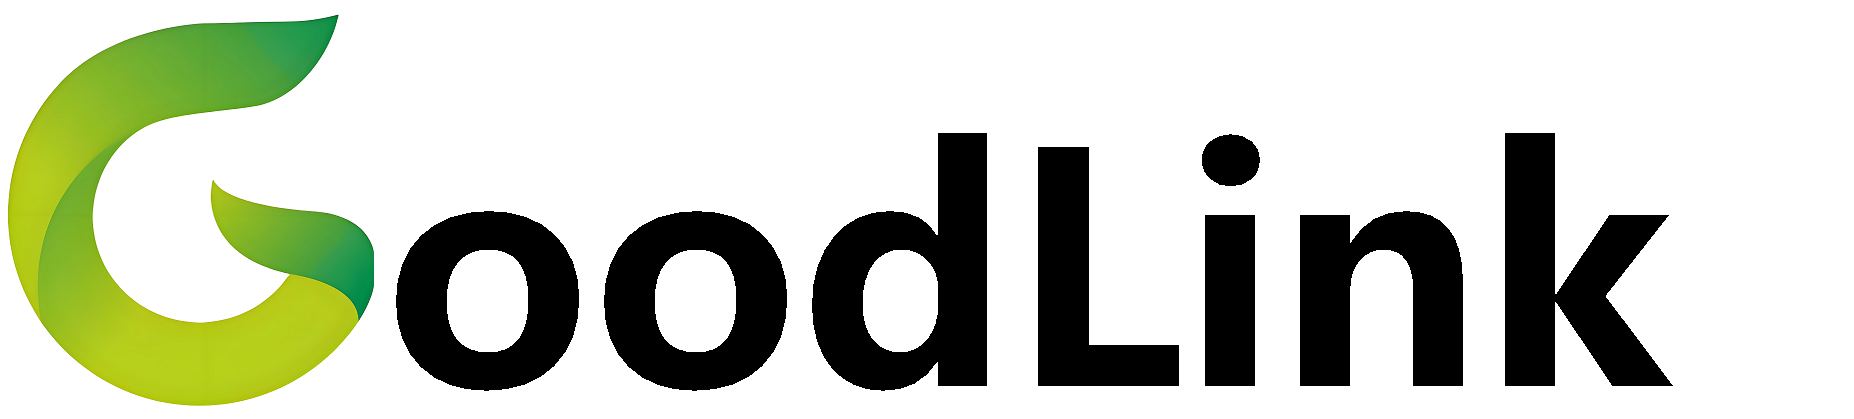
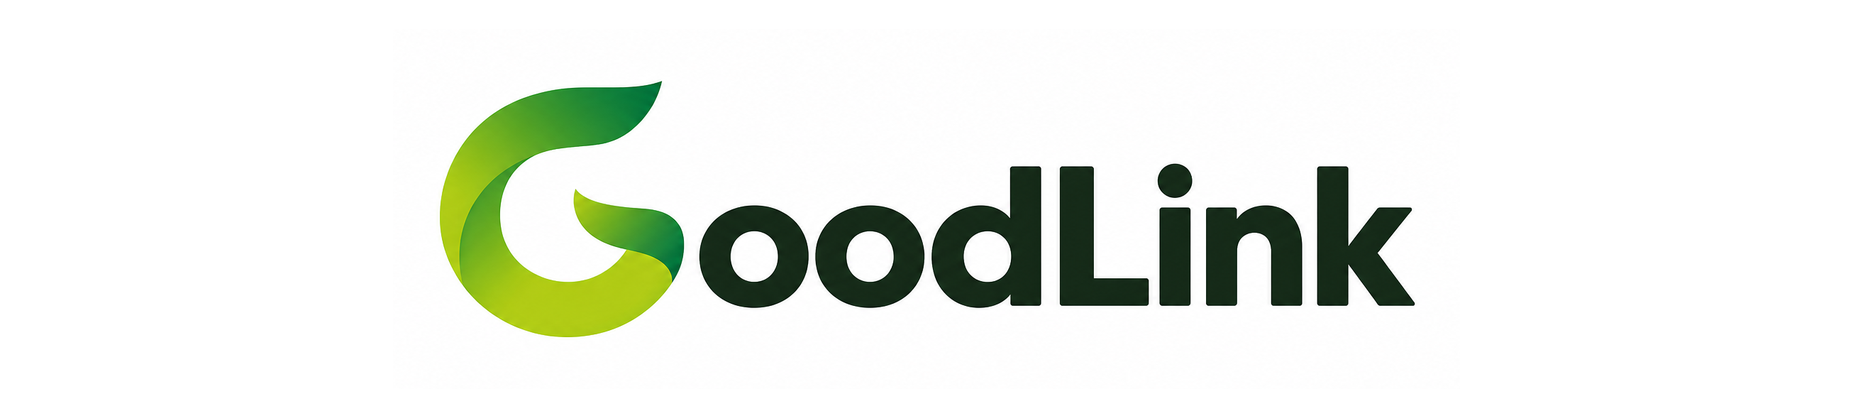
docs: 更新 README 中的描述以强调内网穿透的速度和免费特性
将 README 文件中的内网穿透描述修改为“全网最简单、最快、 免费的内网穿透”，以更好地传达产品优势。同时更新了相关的图像文件。

diff --git a/README.md b/README.md
@@ -1,7 +1,7 @@
 <div align="center">
   <img src="https://gitee.com/konyshe/goodlink/raw/master/assert/letter-g-2.png" width="400" height="100">
 
-  <p><strong>全网最简单、零成本的内网穿透</strong></p>
+  <p><strong>全网最简单、最快、 免费的内网穿透</strong></p>
 
   <p>
     <a href="https://gitee.com/konyshe/goodlink/releases">
